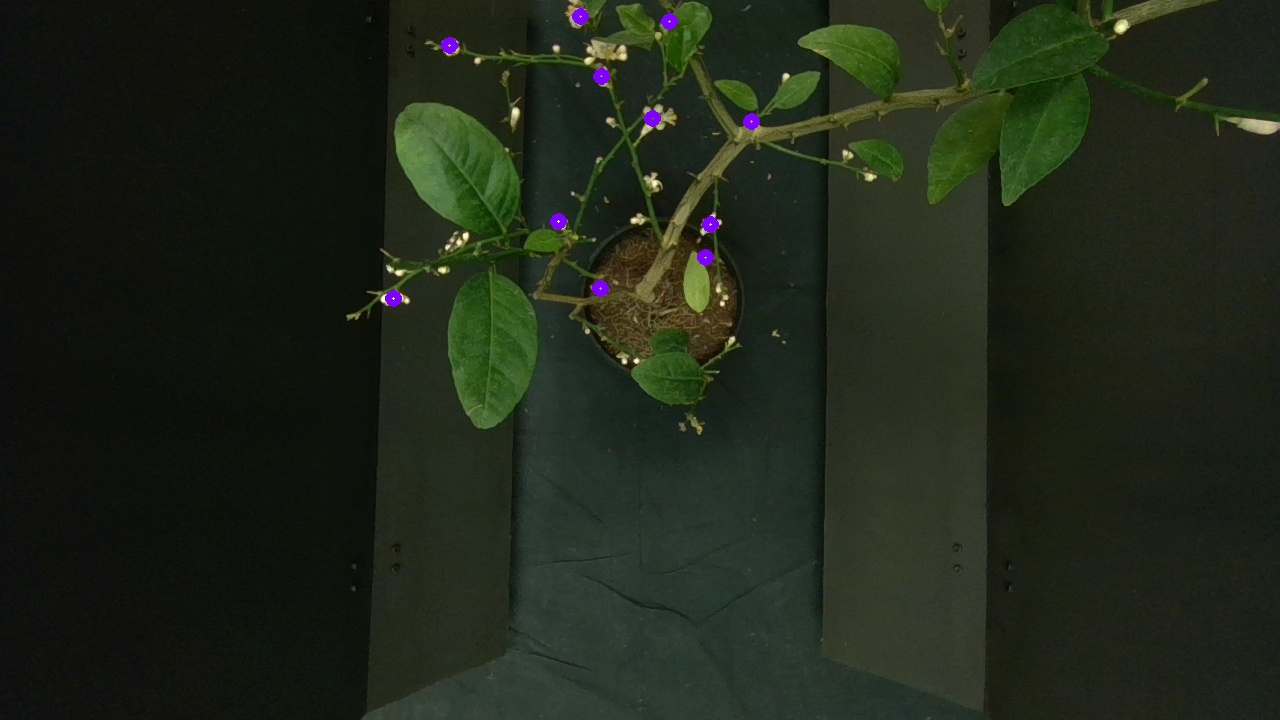
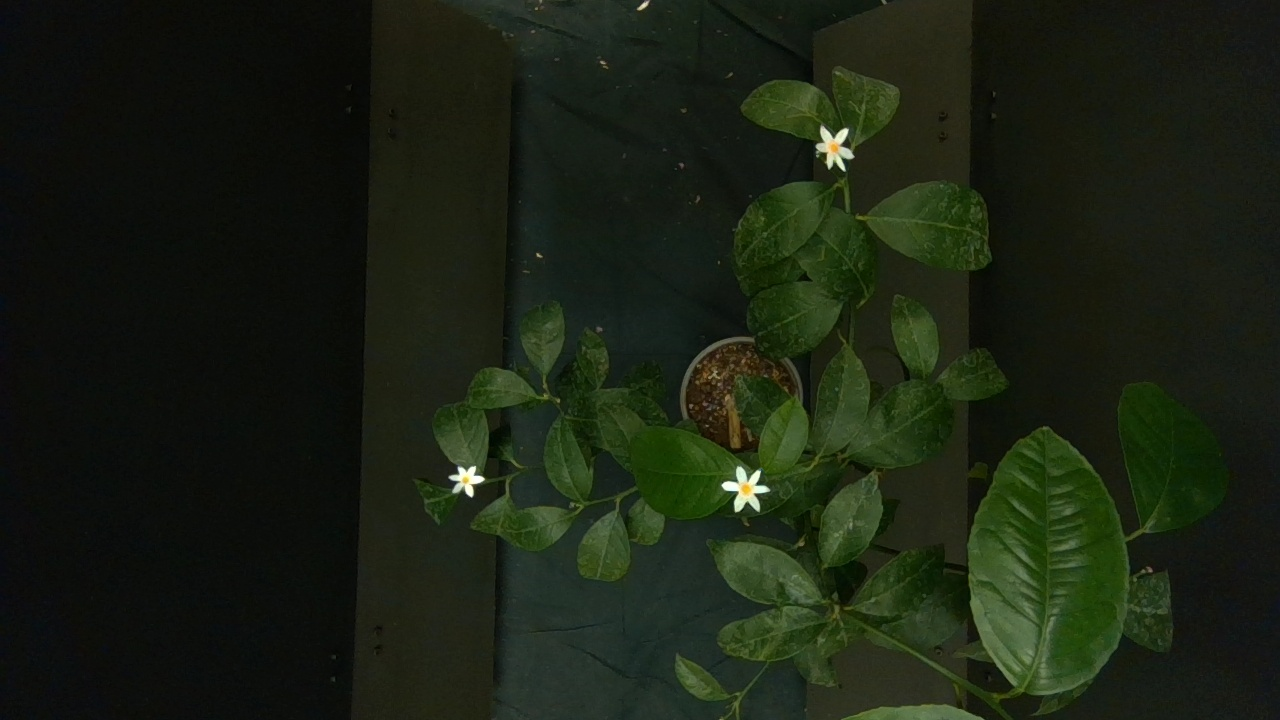
imaging actually updating the exposure

diff --git a/jetson/src/core/imaging.cpp b/jetson/src/core/imaging.cpp
@@ -5,6 +5,7 @@
 #include <iostream>
 #include <numeric>
 #include <math.h>
+#include <unistd.h>
 
 #include <opencv2/core/types.hpp>
 #include <opencv2/imgproc/imgproc.hpp>
@@ -86,7 +87,7 @@ cv::Mat whiteMask(cv::Mat& image, double brightest) {
 			if (std::abs(r/g - 1.0) < 0.15 && // make sure red and green are close together
 				std::abs(g/b - 1.0) < 0.5 && // make sure green and blue are close ish together
 				std::abs(r/b - 1.0) < 0.5 && // make sure red and blue are close ish together
-				(r + g + b) / 3 > brightest*0.7 // make sure its relatively bright compared to the whole iamge
+				(r + g + b) / 3 > brightest*0.8 // make sure its relatively bright compared to the whole iamge
 				) {
 				thresholded.at<uchar>(i, j) = 255;
 			}
@@ -143,7 +144,7 @@ bool nearYellow(cv::Mat& image, cv::Mat& white, cv::Mat& yellow, Point2D topLeft
 			double b = p->z;
 			if ((double)brightest.b/brightest.r - b/r > 0.15 &&  // make sure there is less blue in the ratio compared to white
 				std::abs(r/g - 1.0) < 0.15 && // make sure red and green are close together
-			    (r + g)/2 > (brightest.r + brightest.g) / 2 * 0.6 &&// make sure its bright enough
+			    (r + g)/2 > (brightest.r + brightest.g) / 2 * 0.65 &&// make sure its bright enough
 				 white.at<uchar>(i, j) == 0// make sure we didnt count it as white
 				) {
 				yellow.at<uchar>(i, j) = 255;
@@ -153,7 +154,7 @@ bool nearYellow(cv::Mat& image, cv::Mat& white, cv::Mat& yellow, Point2D topLeft
 	}
 	log(std::string("numYellow: ") + std::to_string(numYellow));
 	log(std::string("area: ") + std::to_string(area));
-	return numYellow > 10;
+	return numYellow > 5;
 }
 
 std::vector<Point2D> findFlowerCenters(cv::Mat& image, std::string const & tag){
@@ -202,7 +203,7 @@ double findYCenterOfPlant(cv::Mat& image) {
 Camera::Camera() : color{rs2::frame()}, depth{rs2::frame()} {
 	log(std::string("INFO Camera: starting init"));
 	cfg.enable_stream(RS2_STREAM_DEPTH, 1280, 720);
-    cfg.enable_stream(RS2_STREAM_COLOR, 1280, 720);
+    	cfg.enable_stream(RS2_STREAM_COLOR, 1280, 720);
 	p.start(cfg);
 	
 	// set manual exposure
@@ -236,7 +237,10 @@ cv::Mat Camera::getColorImage() {
 void Camera::setExposure(int exp) {
 	// set manual exposure
 	auto colorSensor = p.get_active_profile().get_device().query_sensors()[0];
+	colorSensor.set_option(RS2_OPTION_ENABLE_AUTO_EXPOSURE, 0);
 	colorSensor.set_option(RS2_OPTION_EXPOSURE, exp);
+	log(std::string("set exposure: ") + std::to_string(colorSensor.get_option(RS2_OPTION_EXPOSURE)));
+	sleep(1);
 	storeSnapshot();
 }
 

diff --git a/jetson/src/core/main.cpp b/jetson/src/core/main.cpp
@@ -40,7 +40,8 @@ void test_find_flowers(){
 }
 
 std::vector<Point3D> test_image_processing(Camera & cam) {
-	// cam.setExposure(160000); // higher for real plant	
+	// cam.setExposure(160000); // higher for real plant
+	cam.setExposure(40000); // lower for fake plant	
 	cv::Mat image = cam.getColorImage();
 
 	cv::cvtColor(image, image, cv::COLOR_RGB2BGR);
@@ -331,13 +332,14 @@ int main(int argc, char** argv)
 {
 	initialize_log();
 	log(std::string("Starting Program!"));
+	// test_limits();
 	// main_loop();
 
 	// test_scan();
 	// test_drive_interface();
 	// test_camera_image();
-	Camera cam;
-	test_image_processing(cam);
+	 Camera cam;
+	 test_image_processing(cam);
 	// test_clustering();
 	// test_i2c_write();
 	// test_i2c_read();
